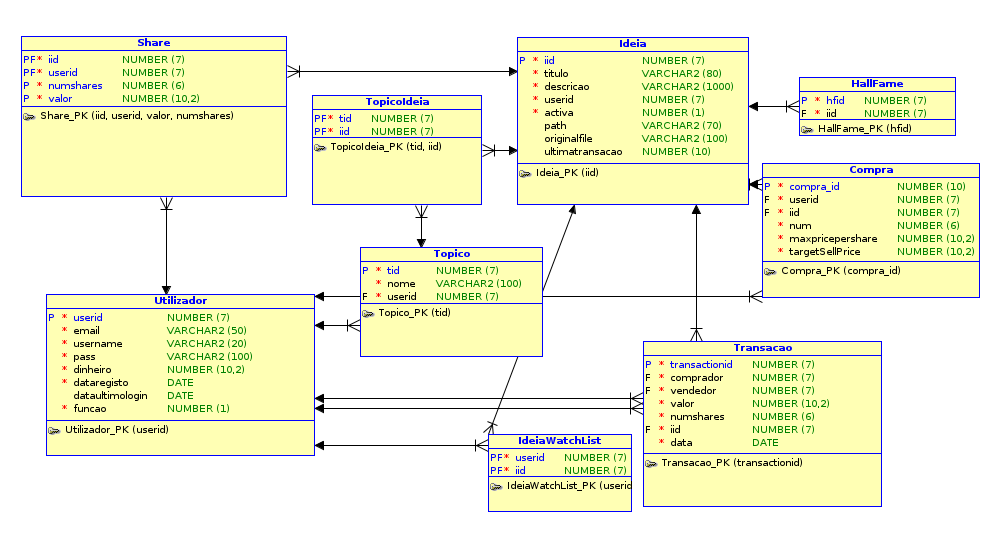
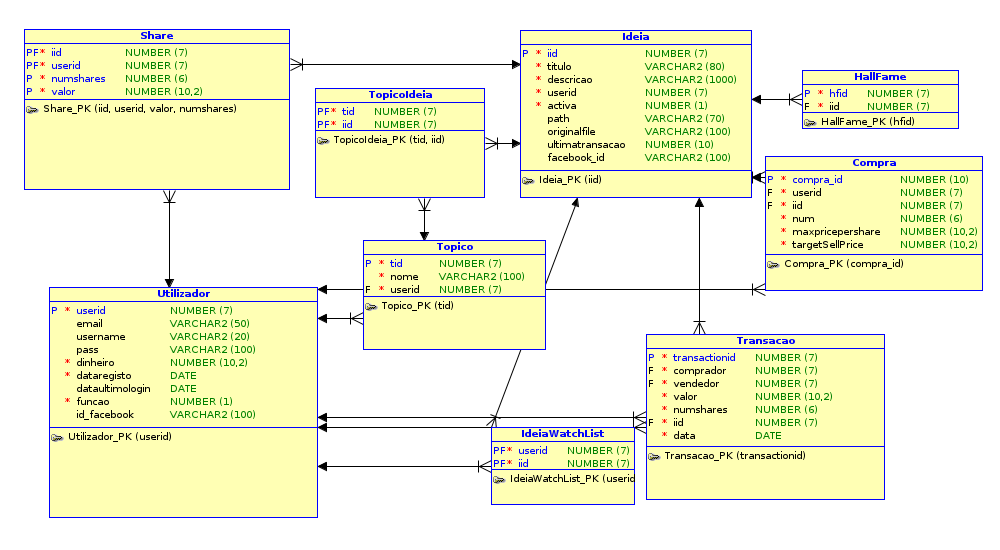
Stuff

Changed region(s): [[0.0, 0.0309, 0.992, 0.9582]]

diff --git a/webapp/IdeaBroker/src/main/resources/actions/controller/LoginFacebookAction.java b/webapp/IdeaBroker/src/main/resources/actions/controller/LoginFacebookAction.java
@@ -1,0 +1,20 @@
+package actions.controller;
+
+
+public class LoginFacebookAction extends ClientAction{
+    private String id;
+
+    public String getId(){
+        return this.id;
+    }
+
+    public void setId(String id1){
+        this.id = id1;
+    }
+
+    public String execute() throws Exception{
+        System.out.println("O id do user no facebook e " + id);
+        //super.execute();
+        return SUCCESS;
+    }
+}

diff --git a/webapp/IdeaBroker/src/main/resources/rmiserver/RMI_Server.java b/webapp/IdeaBroker/src/main/resources/rmiserver/RMI_Server.java
@@ -2178,7 +2178,7 @@ public class RMI_Server extends UnicastRemoteObject implements RMI_Interface {
     public static void main(String[] args) {
         System.getProperties().put("java.security.policy", "policy.all");
         System.setSecurityManager(new RMISecurityManager());
-        String db = "192.168.56.120";
+        String db = "192.168.56.101";
         if ( args.length == 1)
             db = args[0];
         try{
